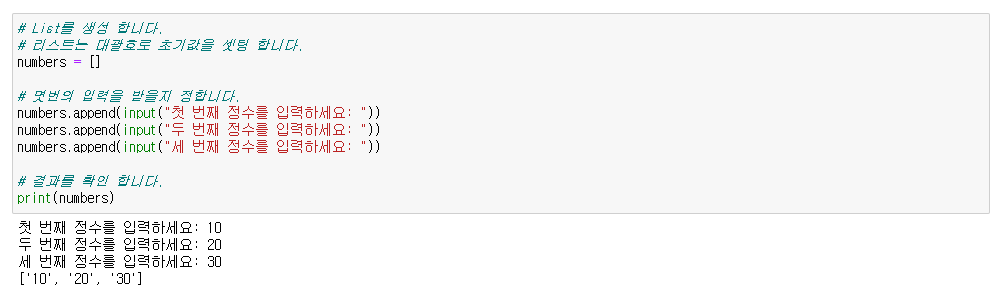
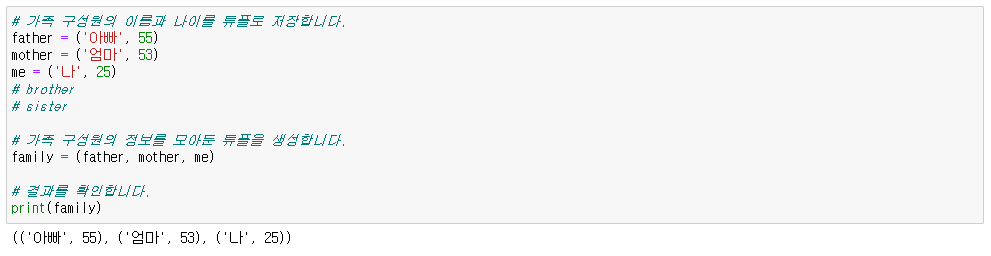
feature

Changed region(s): [[0.0, 0.0, 0.999, 0.6875], [0.0, 0.7188, 0.999, 0.9688], [0.2725, 0.9062, 0.3027, 0.9375]]

diff --git a/Chapter_2/dataType.md b/Chapter_2/dataType.md
@@ -92,8 +92,9 @@ numbers.append(input("세 번째 정수를 입력하세요: "))
 # 결과를 확인 합니다.  
 print(numbers)
 ```
+
 <p align="center">
-  <img src="./Image/jupyterEditor_5.png" alt="jupyterEditor_5">
+  <img src="./Image/jupyterEditor_4.png" alt="jupyterEditor_4">
 </p>
 
 ---
@@ -101,16 +102,23 @@ print(numbers)
 5. **Tuple**
 > - 튜플 (`tuple`): 여러 개의 값을 순서대로 담는 자료형입니다. 값들은 소괄호(`()`)로 둘러싸여 있고, 쉼표로 구분됩니다. 튜플은 변경할 수 없는(immutable) 자료형입니다. 예: `(1, 2, 3)`, `('red', 'green', 'blue')`
 
-<pre>
-<code>
-fruits = ("사과", "오렌지")
-prices = (1500, 1000)
+```
+# 가족 구성원의 이름과 나이를 튜플로 저장합니다.
+father = ('아빠', 55)
+mother = ('엄마', 53)
+me = ('나', 25)
+# brother
+# sister
 
-for i in range(len(fruits)):
-    print(fruits[i], "의 가격은", prices[i], "원입니다.")
-</code>
-</pre>
+# 가족 구성원의 정보를 모아둔 튜플을 생성합니다.
+family = (father, mother, me)
 
+# 결과를 확인합니다.
+print(family)
+```
+<p align="center">
+  <img src="./Image/jupyterEditor_5.png" alt="jupyterEditor_5">
+</p>
 ---
 
 6. **Set**

diff --git a/Chapter_2/Start.md b/Chapter_2/Start.md
@@ -19,7 +19,7 @@ print(str)
 - 이렇게 작성해 한 후에
 <p align="center">
   <img src="./Image/jupyterEditor_99.png" alt="jupyterEditor_99">
-</p>를 입력 합니다.
+</p>를 입력 합니다.<br><br>
 
 
 - 그럼 다음과 같은 결과를 확인할 수 있습니다.
